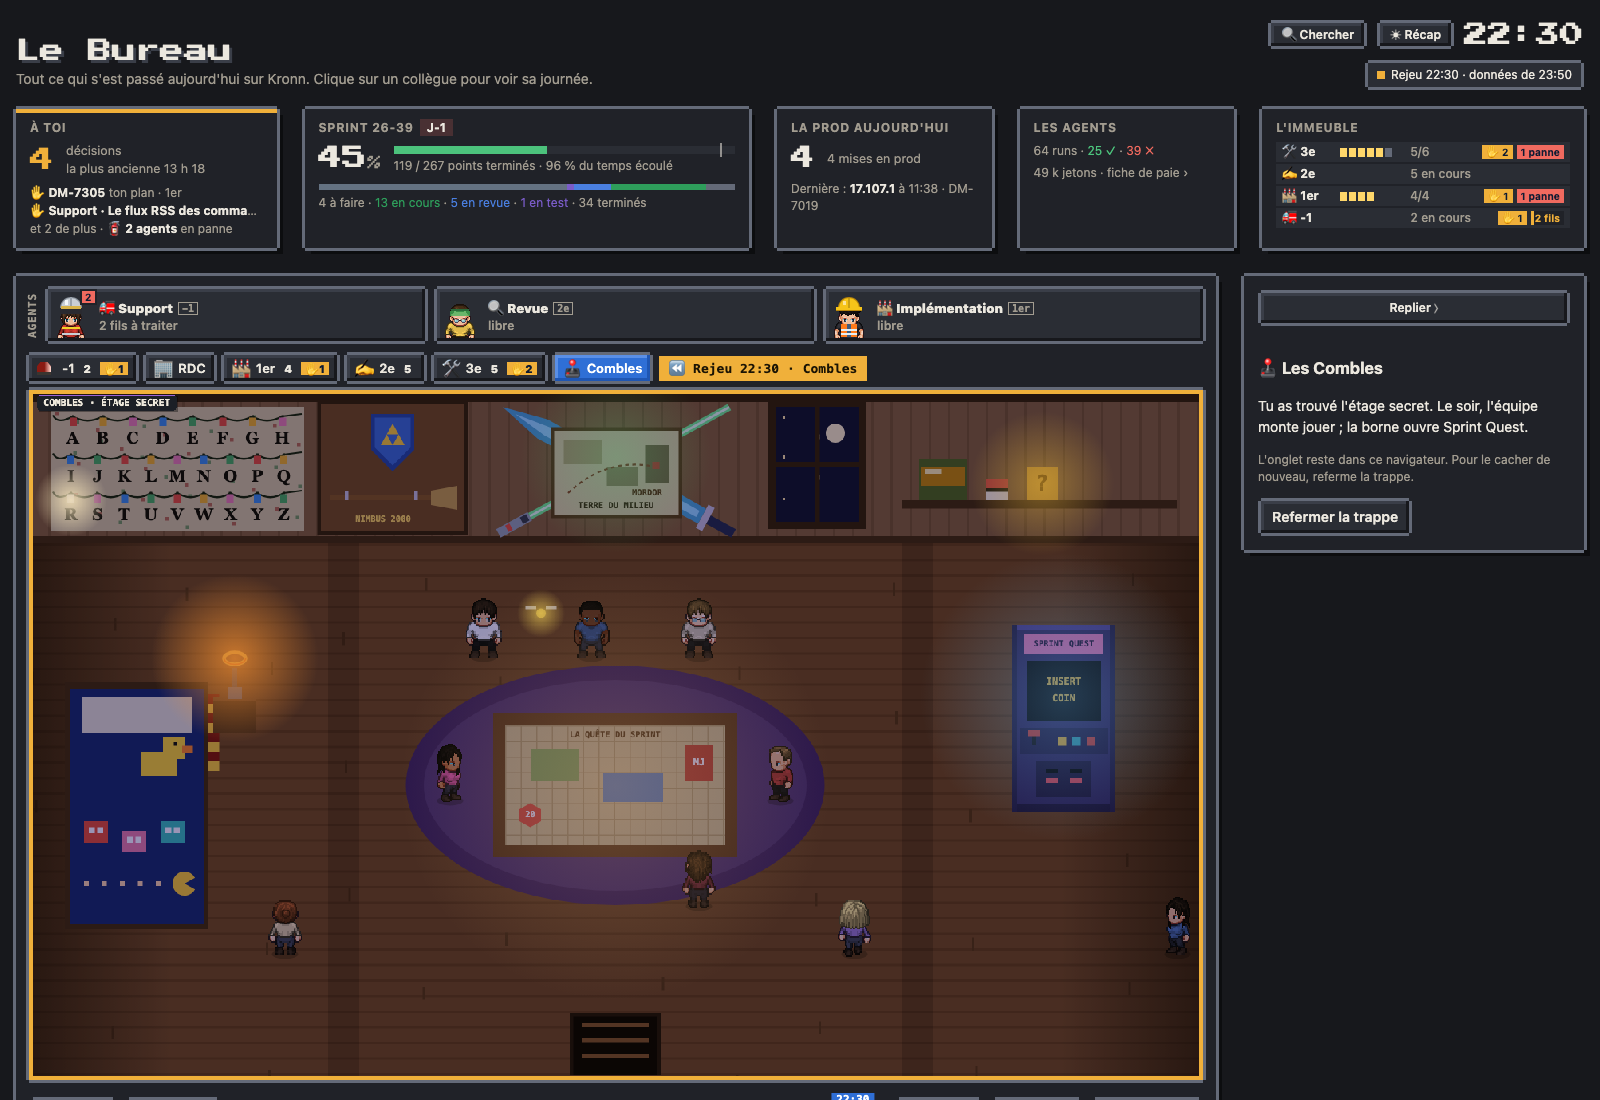
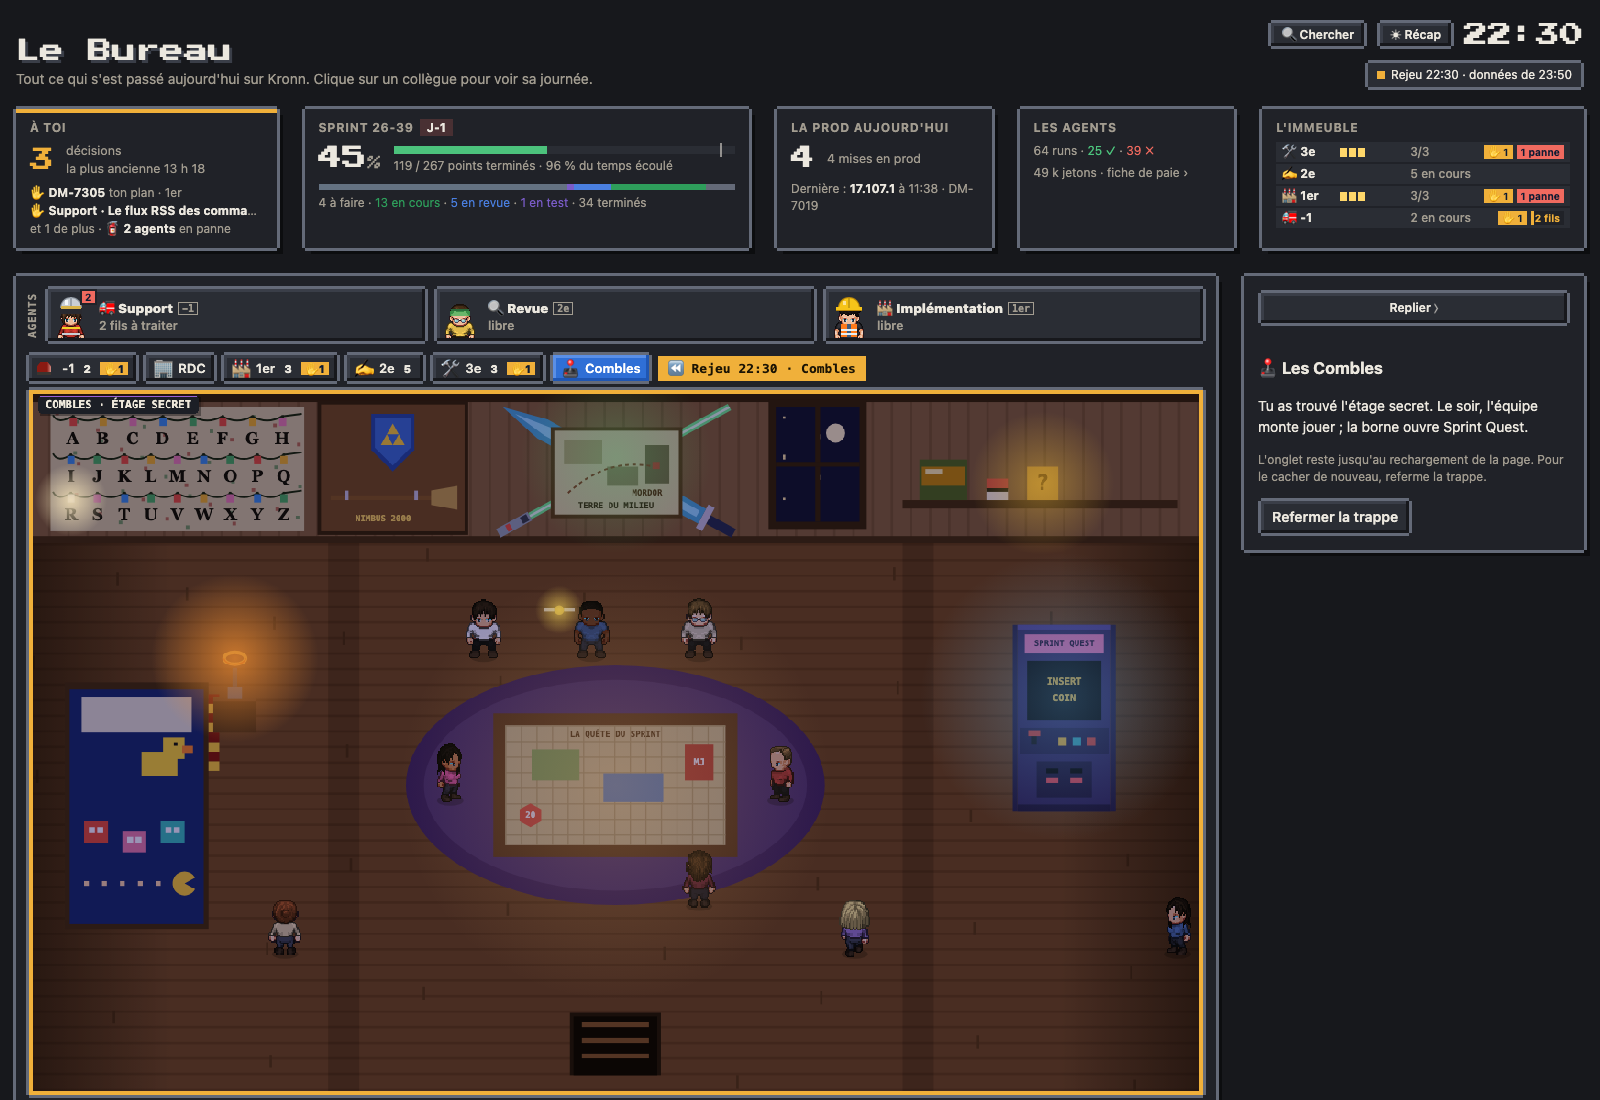
feat(etages): les Combles à la largeur des étages (×1,3, 24 rangées)

diff --git a/page/src/68-combles.js b/page/src/68-combles.js
@@ -2,8 +2,10 @@
 // Une chambre de geek sous le toit, au-dessus du dernier étage : alphabet de Stranger Things, présentoir Poudlard et Hyrule,
 // carte de la Terre du Milieu, lit Pac-Man, table de jeu de rôle, borne d'arcade, l'Anneau en lampe de chevet. Caché tant que
 // le digicode du RDC n'a pas été trouvé (bureau:combles, dans ce navigateur) : pas d'onglet, pas de tuile dans L'immeuble,
-// pas de mode TV. Dessiné au repère de la maquette (981 × 576), agrandi ×1,5 à la taille des étages (AT_W × AT_H).
-const CB_FLOOR=4, CB_S=1.5, CB_VW=AT_W/CB_S, CB_VH=AT_H/CB_S, CB_WALL=128;
+// pas de mode TV. Dessiné au repère de la maquette (981 × 576), agrandi à la largeur des étages (AT_W, ×1,3 à 40 cases) ;
+// la toile fait la hauteur qu'il faut pour la maquette entière (24 rangées).
+const CB_FLOOR=4, CB_S=AT_W/981, CB_WALL=128;AT_ROWS[CB_FLOOR]=Math.ceil(576*CB_S/AT_TS);
+const CB_VW=AT_W/CB_S, CB_VH=AT_ROWS[CB_FLOOR]*AT_TS/CB_S;
 let CB_HITS=[], CB_GLOW=[], CB_PICK=null;
 // dans Kronn (iframe sans allow-same-origin), localStorage lève une erreur : le déblocage vit alors en mémoire, jusqu'au
 // rechargement de la page ; hors de Kronn (aperçu, captures), il reste dans le navigateur
@@ -137,7 +139,7 @@ function cbVif(now,night){
 // Des heures de bureau à 23 h, toute l'équipe présente ce jour-là est aux Combles (les absents de la journée ou de
 // l'après-midi restent chez eux), chacun à une place tirée pour la date ; toutes les CB_MOVE, quelqu'un change de place, en
 // contournant la table par les allées. Tout se déduit de T : le rejeu et les captures montrent la même soirée.
-const CB_EVE_END=23, CB_MOVE=150e3, CB_SPEED=70; // vitesse en px de la maquette par seconde (les personnages y sont ×1,5)
+const CB_EVE_END=23, CB_MOVE=150e3, CB_SPEED=70; // vitesse en px de la maquette par seconde (les personnages y sont ×1,3)
 const CB_SPOTS=[[420,430,'up'],[490,438,'up'],[560,430,'up'],[628,342,'left'],[864,392,'up'],[352,342,'right'],[300,172,'up'],[780,176,'up'],
   [470,222,'down'],[214,470,'up'],[690,470,'up'],[560,222,'down'],[380,222,'down'],[960,470,'left']];
 const CB_LANE={top:250,bottom:420,left:360,right:620};
